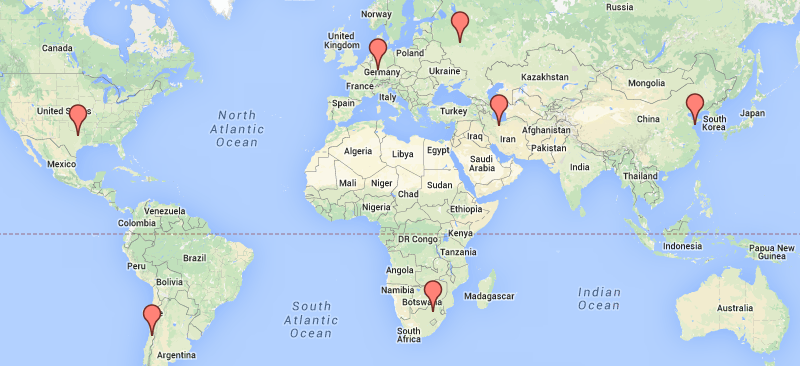
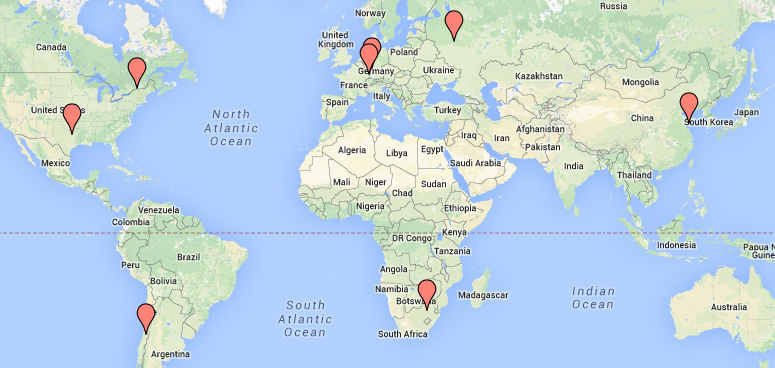
upd

diff --git a/www/downloads/index.html b/www/downloads/index.html
@@ -21,6 +21,7 @@ menu: |
   <li>Latest DDraceNetwork Client &amp; Server: <a href="DDNet-latest-win32.zip">Windows</a>, <a href="DDNet-latest-linux_x86.tar.gz">Linux x86</a>, <a href="DDNet-latest-linux_x86_64.tar.gz">Linux x86_64</a>, <a href="DDNet-latest-osx.dmg">Mac OS X</a>, <a href="DDNet-latest.apk">Android</a>
   <table>
     <tr><th align="center">Date</th><th align="center">Version</th><th align="center" colspan="5">Download</th></tr>
+      <tr><td>2014-11-16</td><td><b>6.2</b></td><td><a href="DDNet-6.2-win32.zip">Windows</a></td><td><a href="DDNet-6.2-linux_x86.tar.gz">Linux x86</a></td><td><a href="DDNet-6.2-linux_x86_64.tar.gz">Linux x86_64</a></td><td><a href="DDNet-6.2-osx.dmg">Mac OS X</a></td><td><a href="DDNet-6.2.apk">Android</a></td>
       <tr><td>2014-11-02</td><td><b>6.1.3</b></td><td><a href="DDNet-6.1.3-win32.zip">Windows</a></td><td><a href="DDNet-6.1.3-linux_x86.tar.gz">Linux x86</a></td><td><a href="DDNet-6.1.3-linux_x86_64.tar.gz">Linux x86_64</a></td><td><a href="DDNet-6.1.3-osx.dmg">Mac OS X</a></td><td><a href="DDNet-6.1.3.apk">Android</a></td>
       <tr><td>2014-10-28</td><td><b>6.0.3</b></td><td><a href="DDNet-6.0.3-win32.zip">Windows</a></td><td><a href="DDNet-6.0.3-linux_x86.tar.gz">Linux x86</a></td><td><a href="DDNet-6.0.3-linux_x86_64.tar.gz">Linux x86_64</a></td><td><a href="DDNet-6.0.3-osx.dmg">Mac OS X</a></td><td><a href="DDNet-6.0.3.apk">Android</a></td>
       <tr><td>2014-10-11</td><td><b>5.3</b></td><td><a href="DDNet-5.3-win32.zip">Windows</a></td><td><a href="DDNet-5.3-linux_x86.tar.gz">Linux x86</a></td><td><a href="DDNet-5.3-linux_x86_64.tar.gz">Linux x86_64</a></td><td><a href="DDNet-5.3-osx.dmg">Mac OS X</a></td><td><a href="DDNet-5.3.apk">Android</a></td>
@@ -49,6 +50,16 @@ menu: |
 </ul>
 <h3>Changelogs</h3>
 <ul>
+  <li><strong>DDNet 6.2</strong>:<br/>
+    <li>[Mapping] Fix editor sound replacing (by BeaR)</li>
+    <li>[Client] Remove Bandana Brothers skins (use skinpacks instead)</li>
+    <li>[Client] Make sound more accurate</li>
+    <li>[Client] Don't render useless CTele-in number</li>
+    <li>[Client] gfx_text_overlay to stop rendering text at far distances</li>
+    <li>[Server] Improve performance and ping</li>
+    <li>[Server] Improve /rank performance</li>
+    <li>[Server] Fix possible server crash</li>
+  </li>
   <li><strong>DDNet 6.1</strong>:<br/>
     <li>[Mapping] Use opus codec for map sounds instead of wavpack (with help by BeaR)</li>
     <li>[Client] Antiping for Weapons improved, might also work for Vanilla (by nuborn)</li>

diff --git a/www/staff/index.html b/www/staff/index.html
@@ -23,7 +23,7 @@ menu: |
   <li><a href="/players/xRoThx/">xRoThx</a> (GER)</li>
   <li><a href="/players/east/">east</a> (EUR)</li>
   <li><a href="/players/Broken/">Broken</a> (USA)</li>
-  <li>o_be_one (CAN)</li>
+  <li><a href="/players/o_tee_one/">o_tee_one</a> (CAN)</li>
   <li><a href="/players/TsFreddie/">TsFreddie</a> (China)</li>
   <li><a href="/players/laxa/">laxa</a> (TS)</li>
 </ul>

diff --git a/www/index.php b/www/index.php
@@ -49,7 +49,7 @@ function getOS() {
 }
 
 $user_os = getOS();
-$version = '6.1.3';
+$version = '6.2';
 
 if ($user_os == 'win') {
   print '<p class="download"><span class="big"><a href="/downloads/DDNet-' . $version . '-win32.zip">Download DDraceNetwork Client &amp; Server ' . $version . ' for Windows</a></span><br/><a href="/downloads/">Other systems and versions</a></p>';
@@ -70,7 +70,18 @@ if ($user_os == 'win') {
 <div class="block">
 <h2 id="news">News</h2>
 <ul>
-  <li>DDNet CAN now running in Canada thanks to o_be_one from r0x.fr!</li>
+  <li><strong>DDNet 6.2</strong>:<br/>
+    <li>[Mapping] Fix editor sound replacing (by BeaR)</li>
+    <li>[Client] Remove Bandana Brothers skins (use skinpacks instead)</li>
+    <li>[Client] Make sound more accurate</li>
+    <li>[Client] Don't render useless CTele-in number</li>
+    <li>[Client] gfx_text_overlay to stop rendering text at far distances</li>
+    <li>[Server] Improve performance and ping</li>
+    <li>[Server] Improve /rank performance</li>
+    <li>[Server] Fix possible server crash</li>
+  </li>
+  <li>DDNet CAN now running in Canada thanks to o_be_one from r0x.fr! All locations now:<br/>
+    <img class="demo" src="/locations.png" /></li>
   <li>zCatch Servers are now run by Savander with his mod including /rank and /top5!</li>
   <li><a href="http://forum.ddnet.tw/viewtopic.php?f=3&t=604">Halloween Tournament with the new Moderate map "Spooky" by Ama, this Sunday at 20:00 CET!</a> (German livestream will be on <a href="http://www.hitbox.tv/Hallowed1986">Hallowed1986's Hitbox channel</a>)</li>
   <li>New GER servers sponsored by xRoThx</li>
@@ -192,7 +203,5 @@ if ($user_os == 'win') {
     <li>[Server] Fix: Make /save reset switches</li>
   </ul></li>
   <li><a href="http://ddnet.tw/status/">Teamspeak status</a></li>
-  <li>DDNet Persian servers are back! (thanks to bor, King and Parham) All DDNet locations now:<br/>
-    <img class="demo" src="/locations.png" /></li>
 </ul>
 </div>
